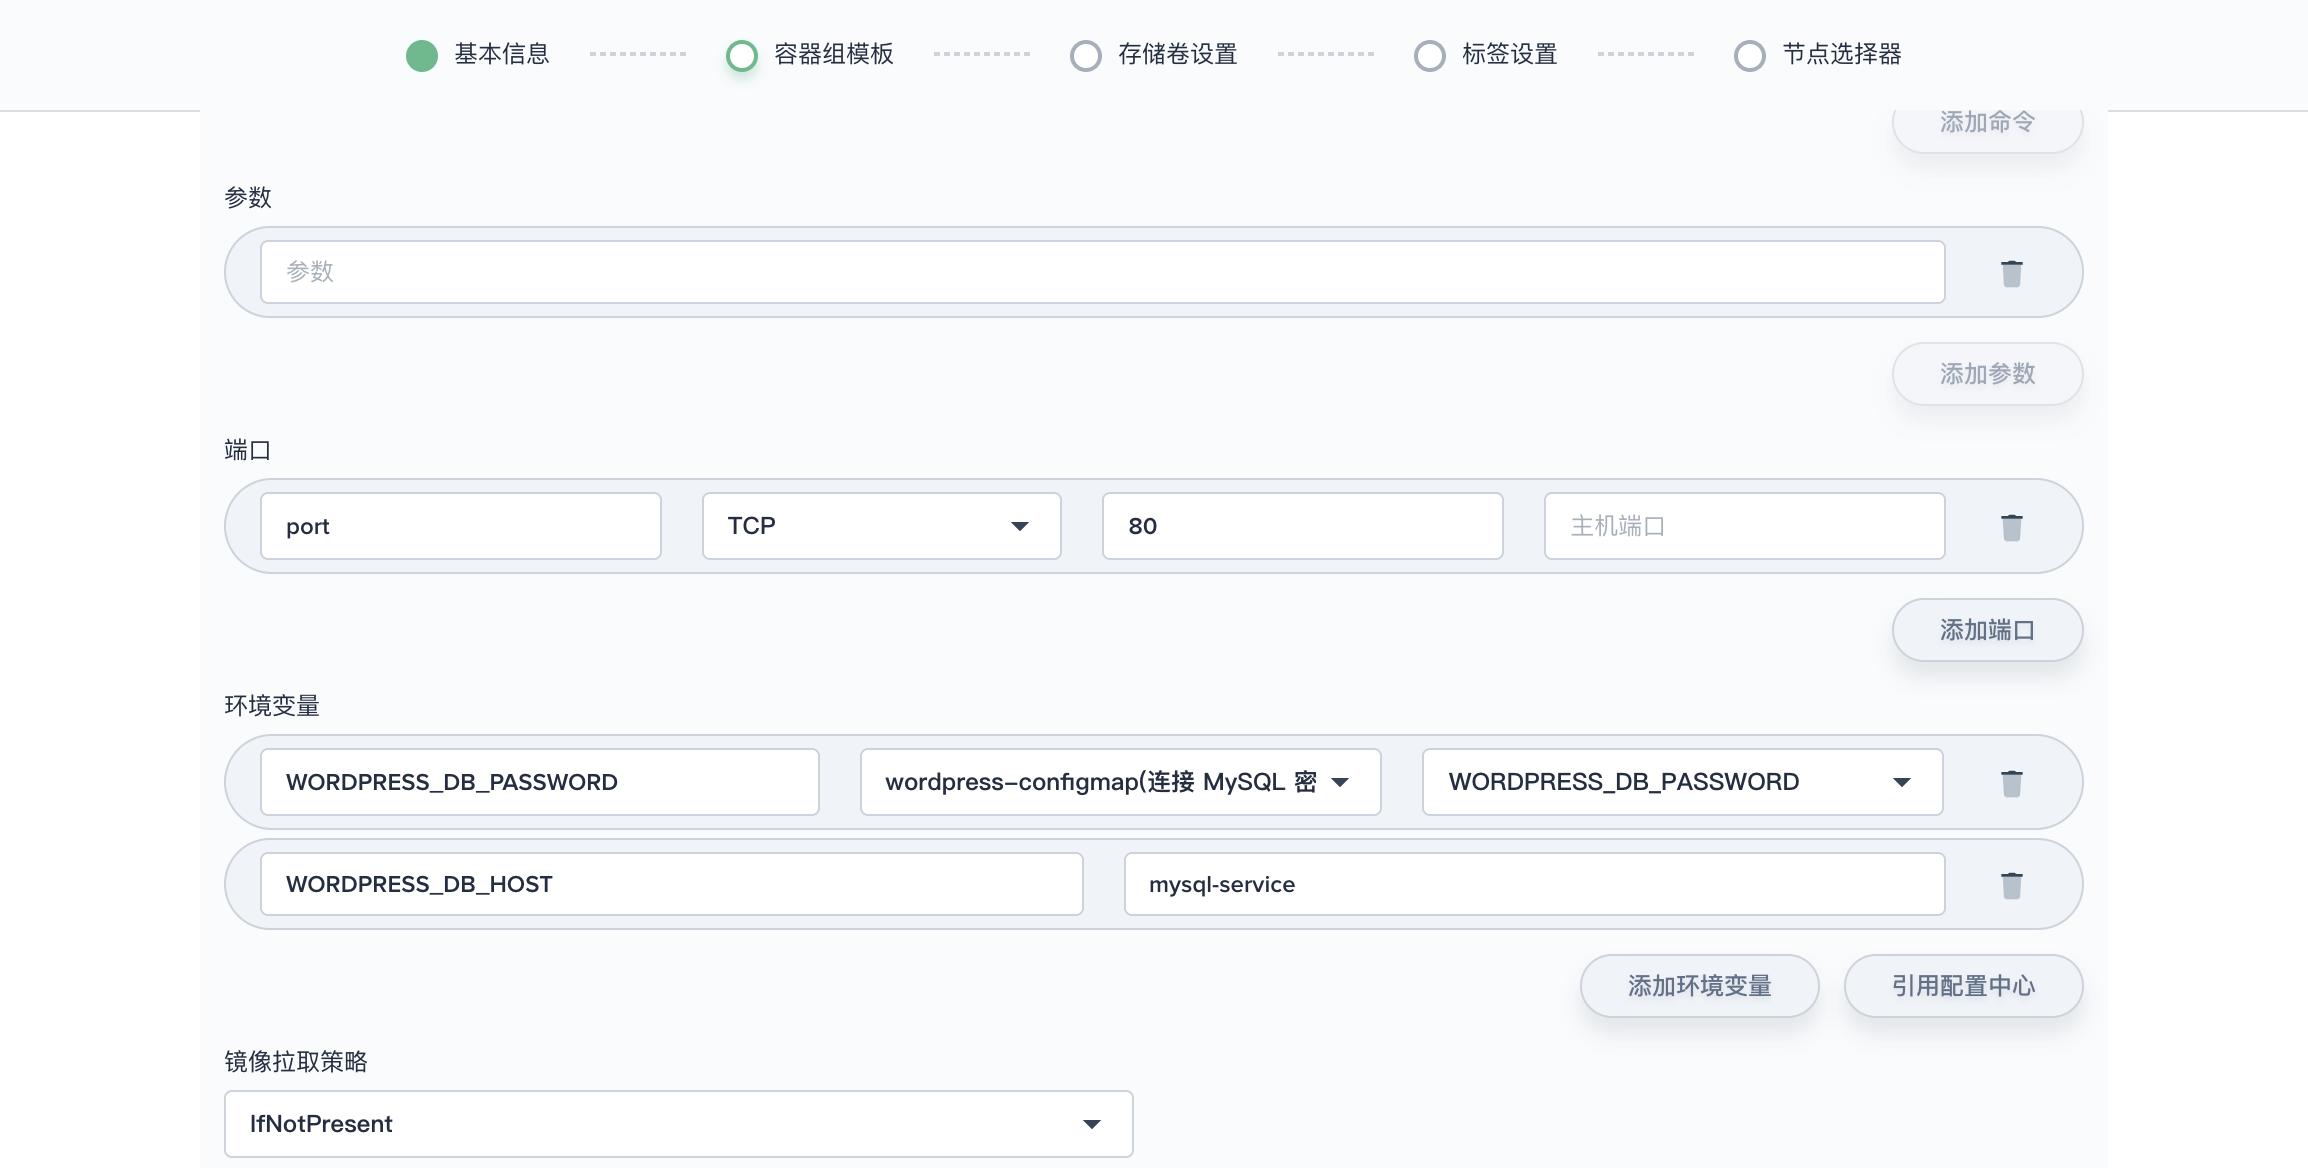
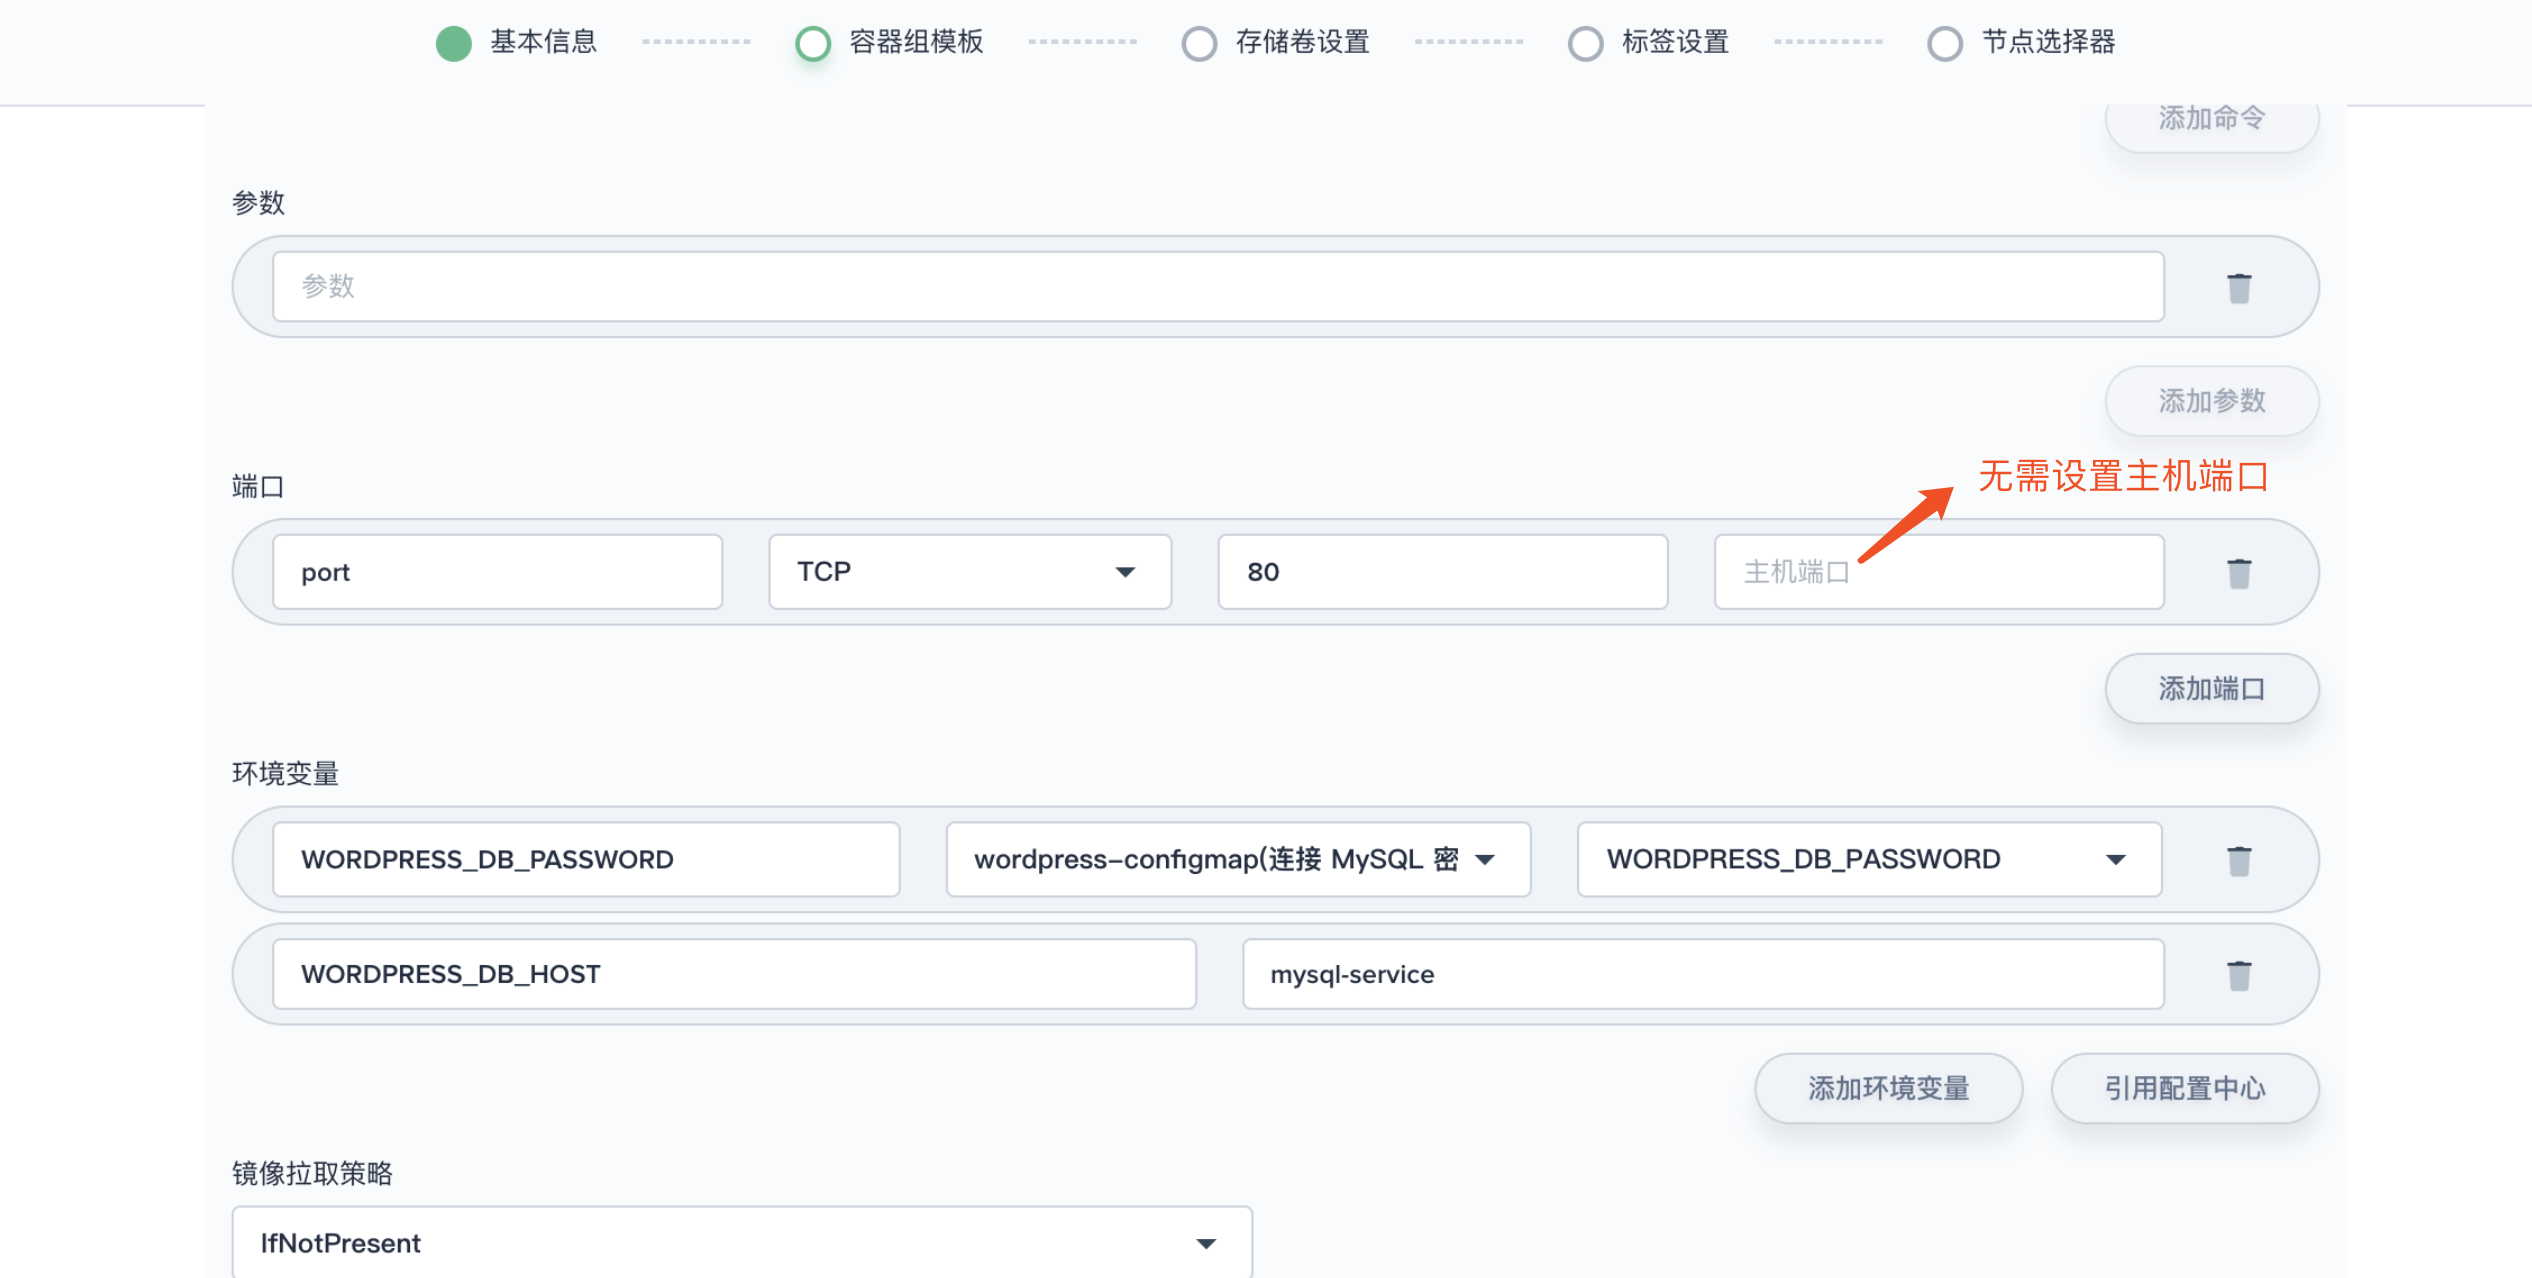
update quick start for nodeport

diff --git a/content/advanced-v1.0.0/zh-CN/quick-start/mysql-deployment.md b/content/advanced-v1.0.0/zh-CN/quick-start/mysql-deployment.md
@@ -69,7 +69,7 @@ MySQL 的环境变量 `MYSQL_ROOT_PASSWORD` 即 root 用户的密码属于敏感
 4.2. 对 **端口** 和 **环境变量** 进行设置，其它项暂不作设置，完成后点击 **保存**。
 
 - CPU 和内存：此处暂不作限定，将使用在创建项目时指定的默认请求值
-- 端口：名称可自定义，选择 `TCP` 协议，填写 MySQL 在容器内的端口 `3306`。主机端口是容器映射到主机上的端口，此处暂不设置主机端口
+- 端口：名称可自定义，选择 `TCP` 协议，填写 MySQL 在容器内的端口 `3306`。主机端口是容器映射到主机上的端口，此处无需设置主机端口
 - 环境变量：点击 **引用配置中心**，名称填写 `MYSQL_ROOT_PASSWORD`，选择在第一步创建的密钥 `mysql-secret (MySQL 密钥)` 和 `MYSQL_ROOT_PASSWORD`
 
 ![容器组模板](/mysql-quick-start-2.png)

diff --git a/content/advanced-v1.0.0/zh-CN/quick-start/admin-quick-start.md b/content/advanced-v1.0.0/zh-CN/quick-start/admin-quick-start.md
@@ -16,7 +16,7 @@ title: "管理员快速入门"
 
 ## 操作示例
 
-### 集群用户管理
+### 集群管理员
 
 #### 第一步：创建角色和账号
 
@@ -66,7 +66,7 @@ title: "管理员快速入门"
 
 ![查看账号列表](/user-manager-list.png)
 
-### 企业空间用户管理
+### 企业空间管理员
 
 #### 第二步：创建企业空间
 
@@ -94,7 +94,7 @@ title: "管理员快速入门"
 
 ![邀请 project-regular](/invite-operator-user.png)
 
-### 项目和 DevOps 工程用户管理
+### 项目和 DevOps 工程管理员
 
 #### 第三步：创建项目
 
